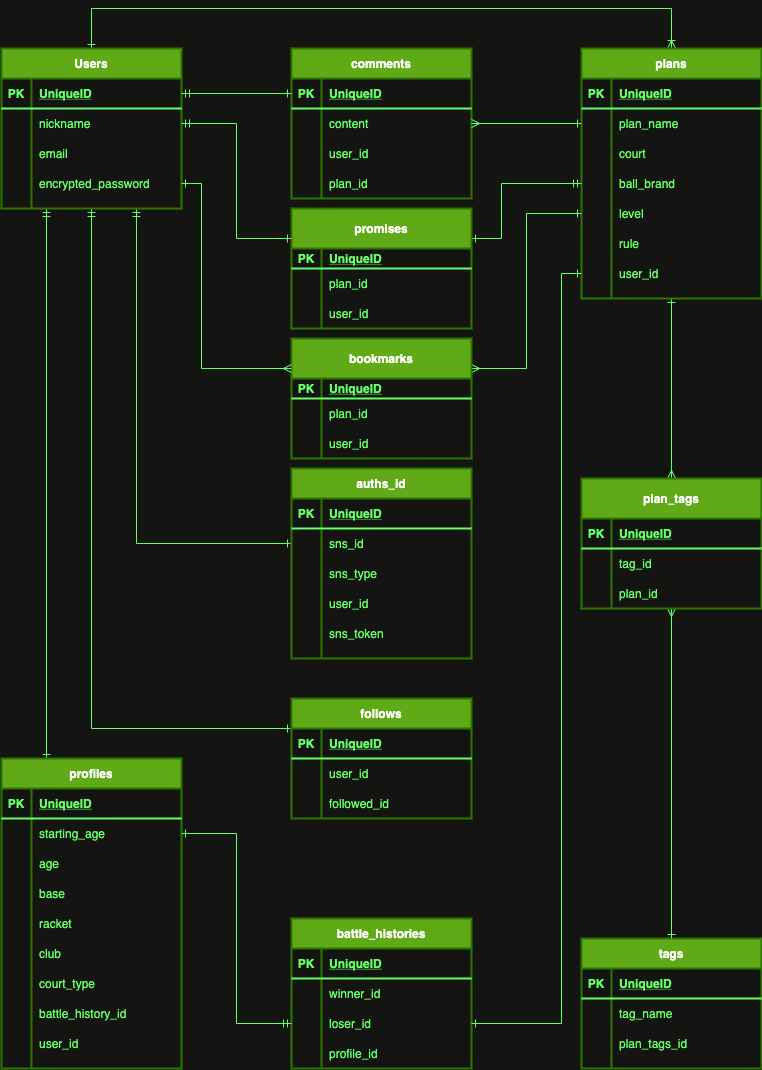
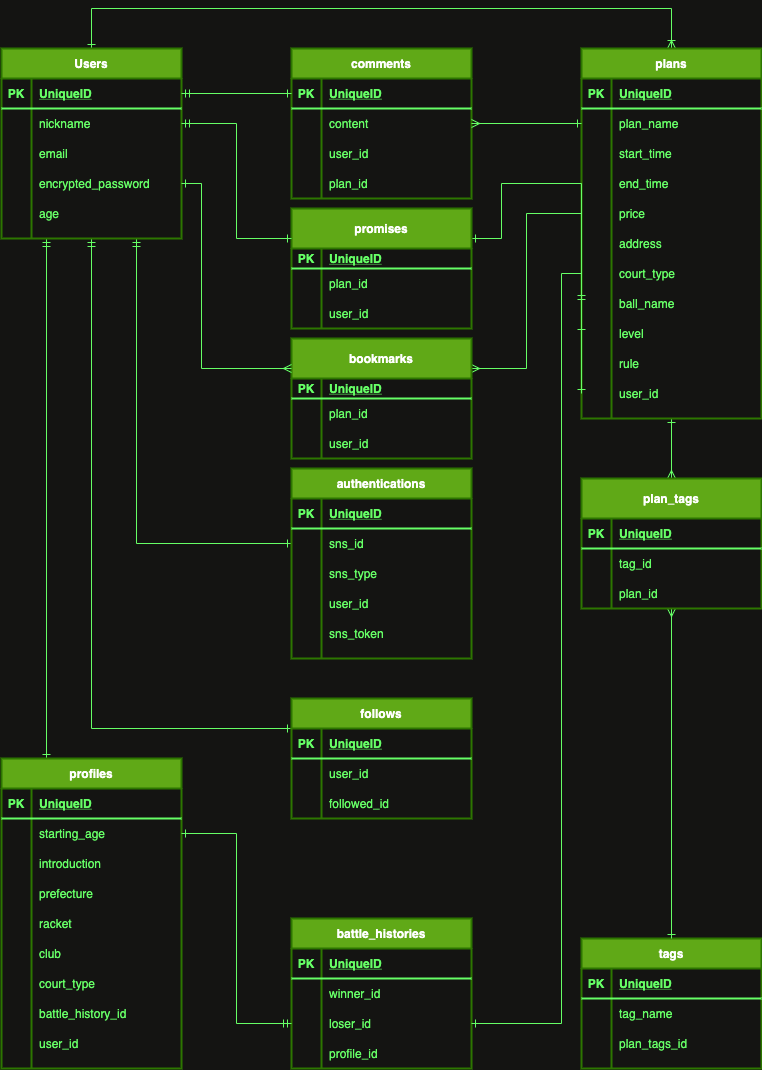
カラム名入力

diff --git a/README.md b/README.md
@@ -1,34 +1,85 @@
 # 設計
 
 ## users                 
-|colum                |type   |option       |
-|---------------------|-------|-------------|
-|nickname             |string | null:false  |　名前
-|email                |string | null:false  |　アドレス
-|encrypted_password   |string | null:false  |　暗号
-|age                  |date   |null:false   |  年齢
+|colum                |type   |option       |補足        |
+|---------------------|-------|-------------|-----------|
+|nickname             |string | null:false  |名前        |  
+|email                |string | null:false  |アドレス     |    
+|encrypted_password   |string | null:false  |暗号        |  
+|age                  |date   |null:false   |年齢        |  
 
 ## profiles
-|colum              |type    |option            |      
-|-------------------|--------|------------------|
-|starting_age       |integer |null:false        |開始年齢         
-|introduction       |text    |                  |自己紹介文 
-|prefecture_id      |integer |null:false        |都道府県、アクティブハッシュ
-|racket             |string  |                  |使用ラケット 
-|club               |string  |                  |所属クラブ
-|court_type         |string  |null:false        |対応可能コート、プルダウン式
-|battle_history_id  |integer |foreign_key: true |戦歴の外部キー
-|user_id            |integer |foreign_key: true |ユーザーの外部キー  
+|colum              |type    |option            |補足                    |    
+|-------------------|--------|------------------|--------------------------|
+|starting_age       |integer |null:false        |開始年齢                   |
+|introduction       |text    |                  |自己紹介文                  |
+|prefecture_id      |integer |null:false        |都道府県、アクティブハッシュ   |
+|racket             |string  |                  |使用ラケット                 |
+|club               |string  |                  |所属クラブ                   |
+|court_type         |string  |null:false        |対応可能コート、プルダウン式   |
+|battle_history_id  |integer |foreign_key: true |戦歴の外部キー               |
+|user_id            |integer |foreign_key: true |ユーザーの外部キー           |
 
 ## comments
-|colum   |type    |option           |
-|--------|--------|-----------------|      
-|content |text    |null:false       |コメントテキスト
-|user_id |integer |foreign_key: true|ユーザーの外部キー
-|plan_id |integer |foreign_key: true|募集の外部キー
+|colum   |type    |option           |補足               |
+|--------|--------|-----------------|------------------|
+|content |text    |null:false       |コメントテキスト     |
+|user_id |integer |foreign_key: true|ユーザーの外部キー     |
+|plan_id |integer |foreign_key: true|募集の外部キー     |
 
 ## promises
-|colum   |type    |option            |        
-|--------|--------|------------------|
-|plan_id |integer |foreign_key: true |募集の外部キー
-|user_id |integer |foreign_key: true |ユーザーの外部キー
+|colum   |type    |option            |補足             |
+|--------|--------|------------------|----------------|
+|plan_id |integer |foreign_key: true |募集の外部キー    |
+|user_id |integer |foreign_key: true |ユーザーの外部キー |
+
+## bookmarks
+|colum   |type   |option           |補足             |
+|--------|-------|-----------------|----------------|
+|plan_id |integer|foreign_key: true|募集の外部キー     |    
+|user_id |integer|foreign_key: true|ユーザーの外部キー |        
+
+## authentications
+|colum    |type    |option             |補足            |
+|---------|--------|-------------------|---------------|
+|uid      |string  |null: false        |APIのユーザーID  |
+|user_id  |integer |foreign_key: true  |ユーザーの外部キー|
+|provider |string  |null: false        |プロバイダの識別  |
+
+## follows
+|colum       |type      |option            |補足                 |
+|------------|----------|------------------|--------------------|
+|user_id     |integer   |foreign_key: true | ユーザー外部キー      |
+|followed_id |integer   |null: false       | フォローしたユーザーID |
+
+## battle_histories
+|colum      |type    |option            |補足                |
+|-----------|--------|------------------|-------------------|
+|winner_id  |integer |null:false        |勝者のID            |
+|loser_id   |integer |null:false        |敗者のID            |
+|profile_id |integer |foreign_key: true |プロフィールの外部キー |
+
+## plans
+|colum     |type    |option            |補足         |
+|----------|--------|------------------|-------------|
+|plan_name |string  |null: false       |募集タイトル   |
+|address   |string  |null: false       |住所          |
+|start_time|date    |null: false       |開始時間       |
+|end_time  |date    |null: false       |終了時間       |
+|price     |integer |null: false       |参加費用       |
+|court_type|string  |null: false       |コートの種類    |
+|ball_name |string  |                  |ボールの種類    |
+|level     |string  |null: false       |競技レベル      |
+|rule      |string  |null: false       |競技ルール      |
+|user_id   |integer |foreign_key: true |ユーザー外部キー |
+
+## tag_relations
+|colum    |type    |option            |補足          |
+|---------|--------|------------------|-------------|
+|tag_id   |integer |foreign_key: true |タグの外部キー |
+|plan_id  |integer |foreign_key: true |募集の外部キー　|
+
+## tags
+|colum    |type   |option            |補足      |
+|---------|-------|------------------|----------|
+|tag_name |integer|foreign_key: true |タグの名前  |
